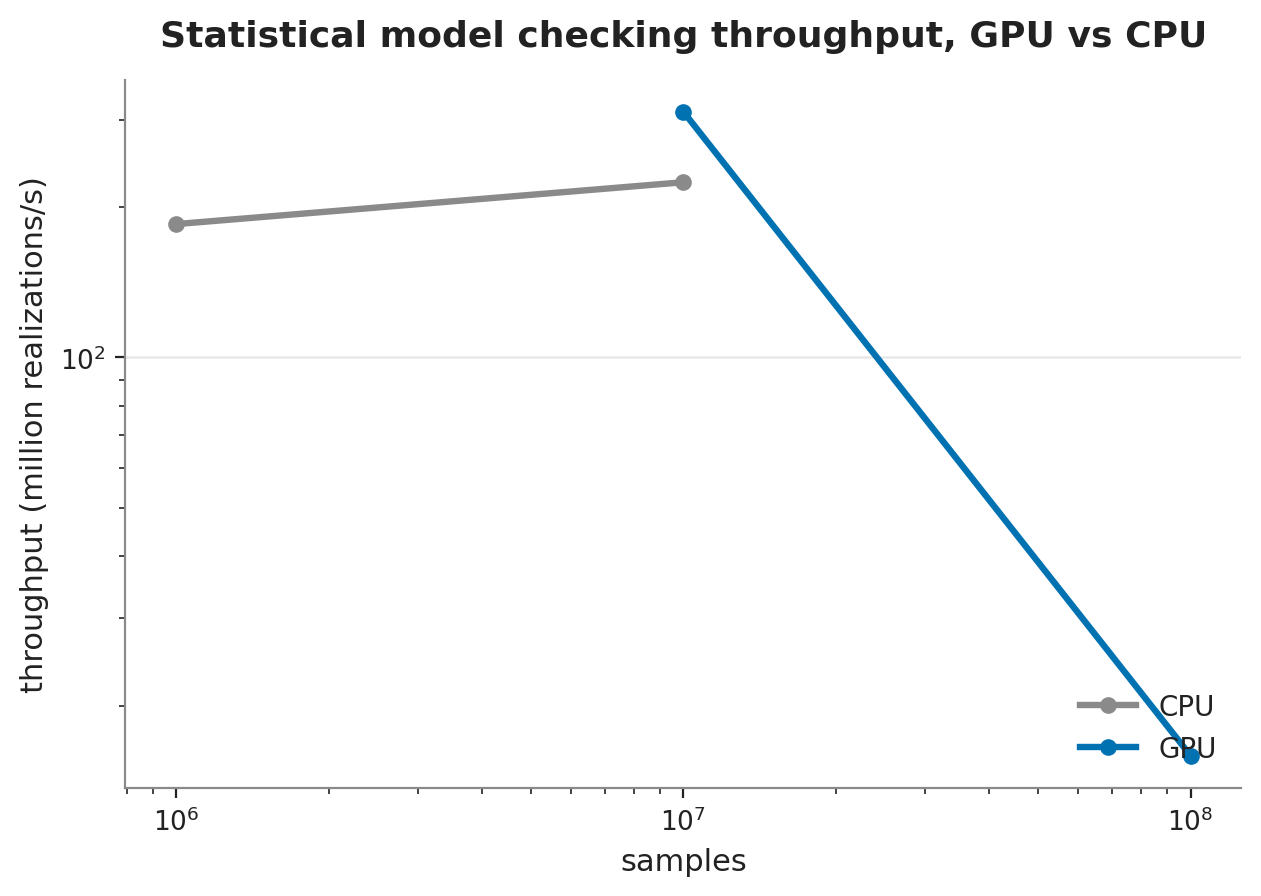
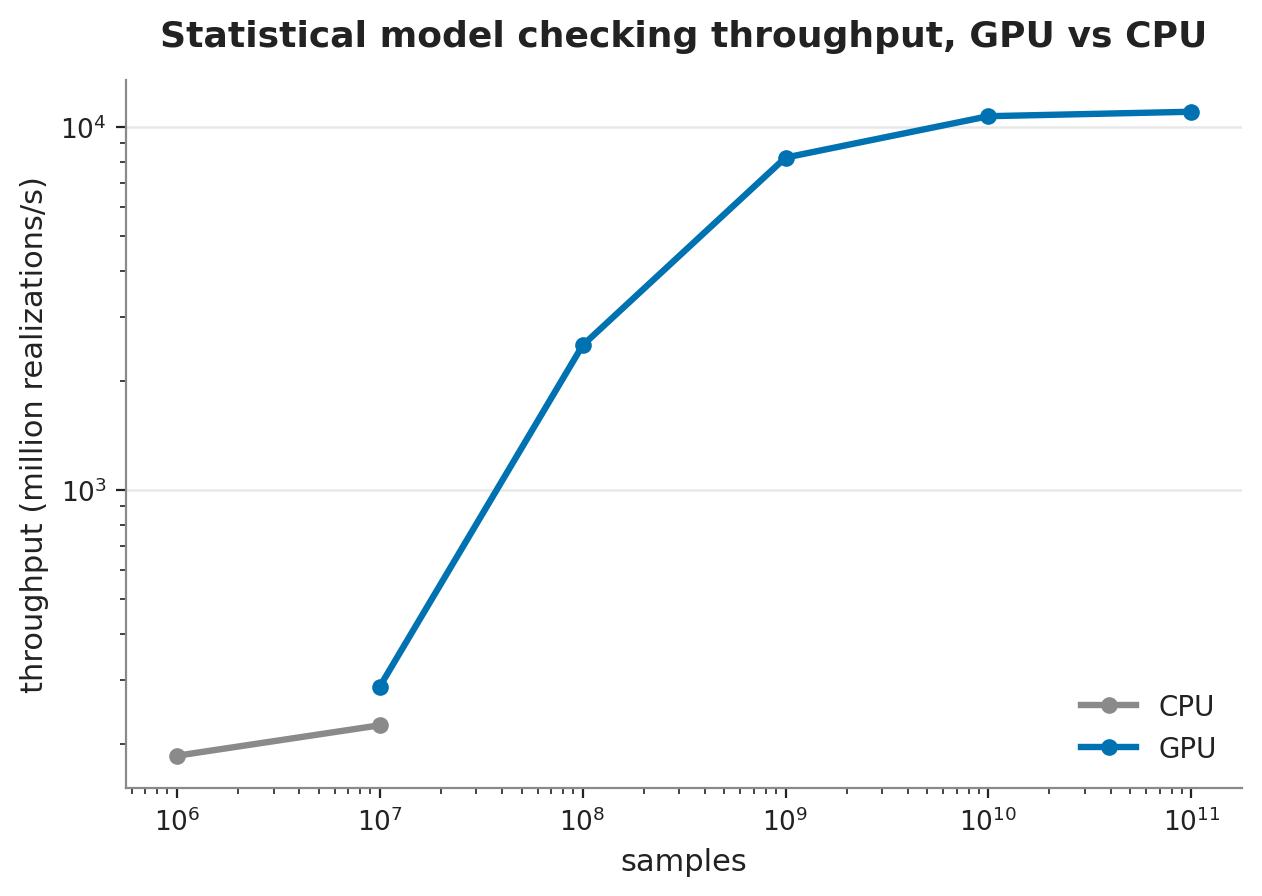
sweep the gpu throughput out to a hundred billion
The A40 climbs to about 2.5 billion realization-steps per second at a hundred million samples and plateaus near 11 billion from ten billion through a hundred billion, an order of magnitude past the CPU. Past four billion the RNG streams begin to repeat, so the largest points read as throughput rather than independent samples, which the README states.

diff --git a/benchmarks/README.md b/benchmarks/README.md
@@ -16,7 +16,7 @@ Run a track with `cargo run --release -p sentil-benchmarks --bin sentil_runner <
 
 Run the CPU path with `cargo run --release --bin sentil_smc_runner accuracy` or `... throughput <samples>`. For the GPU path, build with `--features gpu` on a machine that has a compatible device and run the same commands. The runner labels each record `cpu` or `gpu` by what actually ran, so a feature-on run on a device-less node still reports the truth; a `gpu` label means the estimate ran on a GPU node, but the device path falls back to the CPU silently for an input it cannot accelerate, so the label marks the node, not a promise that every step touched the device.
 
-The committed numbers were measured on a 128-core AMD EPYC 7763 (`sentil_smc_cpu.jsonl`) and an NVIDIA A40 (`sentil_smc_gpu.jsonl`), and which path leads depends on the sample count. For flat Monte Carlo the parallel CPU path holds the lead at the counts a typical check uses: on the ten-step models it runs from 800 million up to 1.1 billion realization-steps per second across the cores, while the A40 runs those same models near 290 million per second at ten million samples and about 20 million on the single-step model, held back by the per-estimate device setup. The count tiles across dispatches, so a larger run stays on the device and that setup amortizes: at a hundred million samples the ten-step rate climbs above two billion and the single-step model reaches about 210 million, so the GPU pulls ahead once the run is large enough. The GPU also earns its place on the rare-event path, where it resolves probabilities far below what a flat Monte Carlo run reaches at all, not on raw sampling rate against a high-core-count CPU.
+The committed numbers were measured on a 128-core AMD EPYC 7763 (`sentil_smc_cpu.jsonl`) and an NVIDIA A40 (`sentil_smc_gpu.jsonl`), and which path leads depends on the sample count. For flat Monte Carlo the parallel CPU path holds the lead at the small counts a typical check uses: on the ten-step models it runs from 800 million up to 1.1 billion realization-steps per second across the cores, while the A40 runs those same models near 290 million per second at ten million samples and about 20 million on the single-step model, held back by the per-estimate device setup. The count tiles across dispatches, so a larger run stays on the device and that setup amortizes over the work: the ten-step rate climbs to about 2.5 billion per second at a hundred million samples and 8 billion at a billion, then plateaus near 11 billion from ten billion through a hundred billion, an order of magnitude past the CPU, while the single-step model tops out near 2.9 billion. One caveat on the largest points: the per-realization RNG state is 32 bits, so distinct streams saturate near four billion. Past there the count stays exact and the estimate holds its known value, but the extra realizations repeat streams, so those points measure how fast the device grinds realizations rather than how many independent samples it draws. The GPU also earns its place on the rare-event path, where it resolves probabilities far below what a flat Monte Carlo run reaches at all.
 
 ## Across the bindings
 
